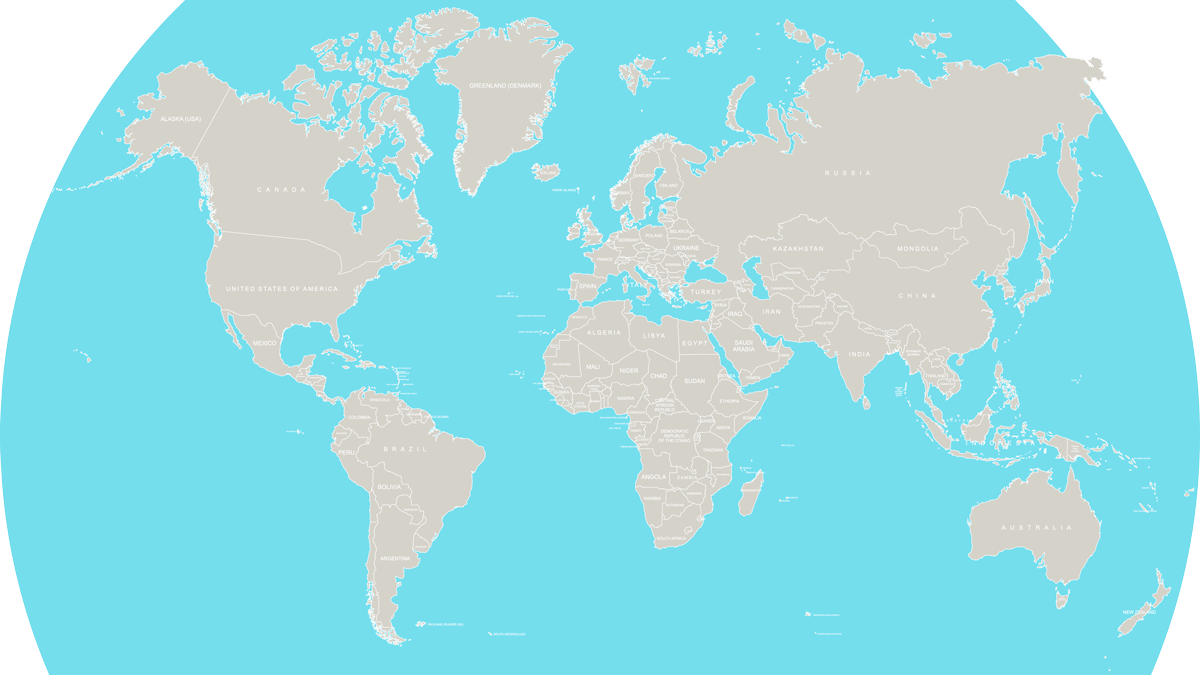
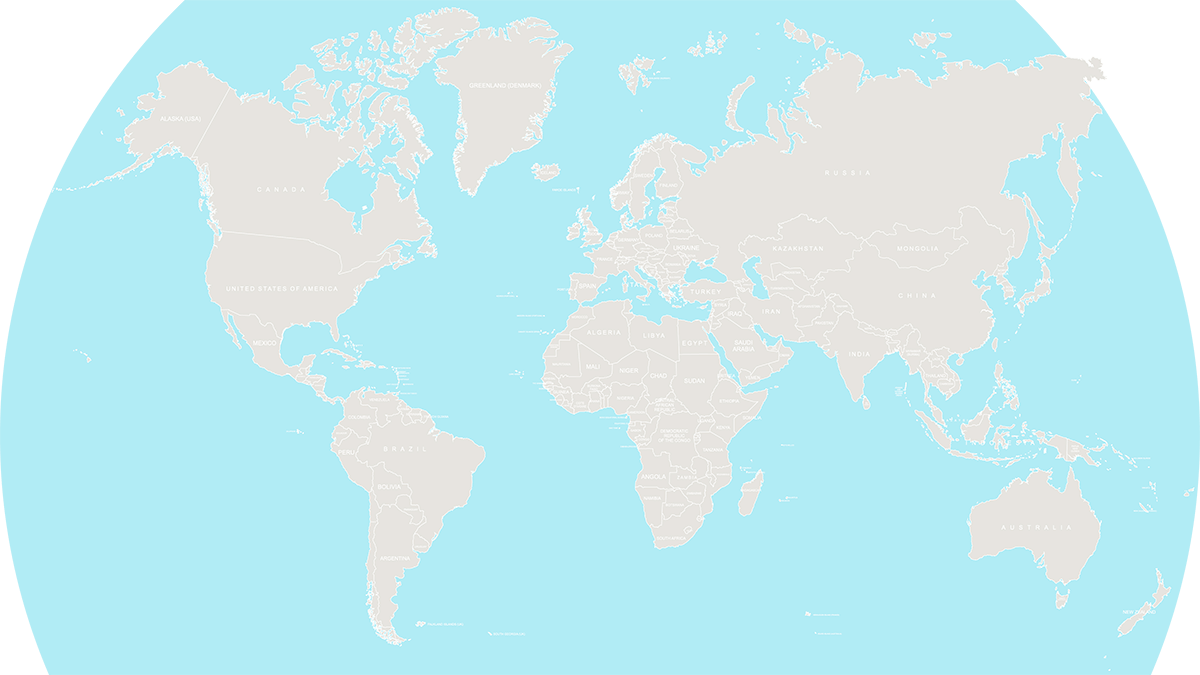
infography

diff --git a/app/assets/stylesheets/bootstrap_and_customization.css.scss b/app/assets/stylesheets/bootstrap_and_customization.css.scss
@@ -5,11 +5,13 @@ body {
  background-image: url(WorldMap.png);
  background-size: 1200px 675px;
  background-repeat:no-repeat;
+ background-attachment:fixed;
+background-position:center; 
 }
 
 $body-bg:                                                   #FAFAFA;
 $font-family: 'Lato', 'Maven Pro', sans-serif;
-$navbar-height:                                        65px;
+$navbar-height:                                        75px;
 $navbar-default-bg:                          white;
 $navbar-default-brand-color:      #FFBF00;
 $brand-primary:                                    #c0392b;
@@ -61,3 +63,8 @@ position: relative;
     left: 0px;
 }
 
+h2, h3 {
+font-family:"Lucida Sans Unicode", "Lucida Grande", sans-serif;
+  color: #6E6E6E;
+  text-align:center;
+}
